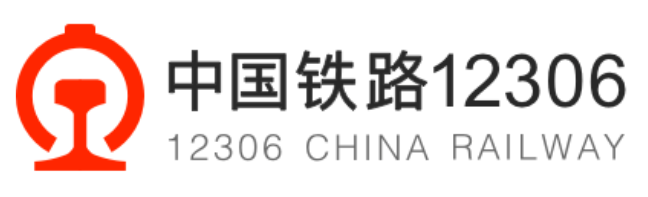
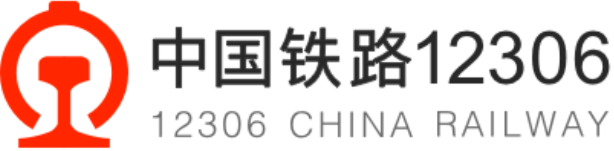
增加了登录页面的视图设计

diff --git a/web/src/App.tsx b/web/src/App.tsx
@@ -10,7 +10,7 @@ import My12306Menu from './components/My12306Menu'
 import NotFound from './pages/NotFound'
 import Standby from './pages/Standby'
 import Register from './pages/Register'
-import ForgotPassword from './pages/ForgotPassword'
+/* ForgotPassword 已移除 */
 import { useSession } from './hooks/useSession'
 import { logout } from './services/auth'
 import ConfirmOrder from './pages/ConfirmOrder'
@@ -37,51 +37,60 @@ function App() {
   const [openMenu, setOpenMenu] = useState<string | null>(null);
   const handleLogout = () => { logout(); navigate('/', { replace: true }); };
   useEffect(() => { setOpenMenu(null); }, [location]);
+  const isLoginPage = location.pathname.startsWith('/login');
   return (
     <div>
-      <header className="site-header">
+      <header className={"site-header" + (isLoginPage ? " login" : "")}>
         <div className="wrap">
-          <div className="logo">中国铁路12306</div>
-          <nav>
-            <My12306Menu />
-            <span className="divider">|</span>
-            {username ? (
-              <span className="welcome">
-                <span className="label">您好，</span>
-                <button className="username-link" onClick={() => navigate('/my')}>{getUserByUsername(username)?.fullName || username}</button>
-              </span>
-            ) : (
-              <span className="auth-group">
-                <NavLink className="auth-link" to="/login">登录</NavLink>
-                <span className="divider">|</span>
-                <NavLink className="auth-link" to="/register">注册</NavLink>
-              </span>
-            )}
-            <span className="divider">|</span>
-            {username ? (
-              <button className="logout-link" onClick={handleLogout}>退出</button>
-            ) : null}
-          </nav>
+          <div className="logo">
+            <img src="/media/图标.png" alt="中国铁路12306" className="logo-img" />
+          </div>
+          {isLoginPage && (
+            <div className="login-welcome-text">欢迎登录12306</div>
+          )}
+          {!isLoginPage && (
+            <nav>
+              <My12306Menu />
+              <span className="divider">|</span>
+              {username ? (
+                <span className="welcome">
+                  <span className="label">您好，</span>
+                  <button className="username-link" onClick={() => navigate('/my')}>{getUserByUsername(username)?.fullName || username}</button>
+                </span>
+              ) : (
+                <span className="auth-group">
+                  <NavLink className="auth-link" to="/login">登录</NavLink>
+                  <span className="divider">|</span>
+                  <NavLink className="auth-link" to="/register">注册</NavLink>
+                </span>
+              )}
+              <span className="divider">|</span>
+              {username ? (
+                <button className="logout-link" onClick={handleLogout}>退出</button>
+              ) : null}
+            </nav>
+          )}
         </div>
-        <div className="main-nav">
-          <div className="wrap">
-            <div className="nav-items">
-              <NavLink to="/" end className="nav-item">首页</NavLink>
-              <div className="nav-item has-dropdown" onMouseEnter={() => setOpenMenu('ticket')} onMouseLeave={() => setOpenMenu(null)}>
-                <span>车票<CaretDown /></span>
-                <div className={"dropdown" + (openMenu === 'ticket' ? " open" : "")}>
+        {!isLoginPage && (
+          <div className="main-nav">
+            <div className="wrap">
+              <div className="nav-items">
+                <NavLink to="/" end className="nav-item">首页</NavLink>
+                <div className="nav-item has-dropdown" onMouseEnter={() => setOpenMenu('ticket')} onMouseLeave={() => setOpenMenu(null)}>
+                  <span>车票<CaretDown /></span>
+                  <div className={"dropdown" + (openMenu === 'ticket' ? " open" : "")}> 
                   <NavLink to="/results" className="dd-item" onClick={() => setOpenMenu(null)}>查询结果</NavLink>
                   <NavLink to="/orders" className="dd-item" onClick={() => setOpenMenu(null)}>订单中心</NavLink>
                   <NavLink to="/standby" className="dd-item" onClick={() => setOpenMenu(null)}>候补购票</NavLink>
                 </div>
               </div>
-
+              
               <div className="nav-item has-dropdown" onMouseEnter={() => setOpenMenu('group')} onMouseLeave={() => setOpenMenu(null)}>
                 <span>团购服务<CaretDown /></span>
                 <div className={"dropdown" + (openMenu === 'group' ? " open" : "")}>
                   <div className="dd-grid dd-2">
-                    <div className="dd-col"><NavLink to="/group?tab=worker" className="dd-item" onClick={() => setOpenMenu(null)}>务工人员</NavLink></div>
-                    <div className="dd-col"><NavLink to="/group?tab=student" className="dd-item" onClick={() => setOpenMenu(null)}>学生团体</NavLink></div>
+                    <div className="dd-col"><NavLink to="/stub/group_worker" className="dd-item" onClick={() => setOpenMenu(null)}>务工人员</NavLink></div>
+                    <div className="dd-col"><NavLink to="/stub/group_student" className="dd-item" onClick={() => setOpenMenu(null)}>学生团体</NavLink></div>
                   </div>
                 </div>
               </div>
@@ -222,13 +231,13 @@ function App() {
             </div>
           </div>
         </div>
+        )}
       </header>
-      <main>
+      <main className={isLoginPage ? 'main-fullwidth' : undefined}>
         <Routes>
           <Route path="/" element={<Home />} />
           <Route path="/login" element={<Login />} />
           <Route path="/register" element={<Register />} />
-          <Route path="/forgot" element={<ForgotPassword />} />
           {/* 忘记密码路由已删除 */}
           <Route path="/results" element={<Results />} />
           <Route path="/orders" element={<ProtectedRoute><Orders /></ProtectedRoute>} />

diff --git a/web/src/pages/Login.tsx b/web/src/pages/Login.tsx
@@ -10,7 +10,7 @@ const Login: React.FC = () => {
   const [username, setUsername] = useState<string>(() => localStorage.getItem('rememberedUsername') || '');
   const [password, setPassword] = useState('');
   const [showPwd, setShowPwd] = useState(false);
-  const [remember, setRemember] = useState(!!localStorage.getItem('rememberedUsername'));
+  // 取消“记住用户名”功能
   const [error, setError] = useState<string>('');
 
   const handleSubmit = async (e: React.FormEvent) => {
@@ -21,11 +21,7 @@ const Login: React.FC = () => {
       setError(result.message || '登录失败');
       return;
     }
-    if (remember) {
-      localStorage.setItem('rememberedUsername', username);
-    } else {
-      localStorage.removeItem('rememberedUsername');
-    }
+    // 记住用户名功能已取消
     // 登录成功，设置会话并按来源跳转
     setSession(username);
     const s = location.state as unknown; let from = '/';
@@ -77,41 +73,20 @@ const Login: React.FC = () => {
 
   return (
     <div className="login-wrapper">
-      {/* 头部 */}
-      <header className="header">
-        <div className="logo-section">
-          <img src="/media/图标.png" alt="12306图标" className="logo-icon-img" />
-          <div className="logo-text">
-            <h1 className="logo-main">中国铁路12306</h1>
-            <p className="logo-sub">12306 CHINA RAILWAY</p>
-          </div>
-        </div>
-        <div className="welcome-text">欢迎登录12306</div>
-      </header>
+      {/* 登录页不再展示内部头部 */}
 
       {/* 主登录区域 */}
       <div className="login-container">
         <div className="login-page">
           <div className="hero">
-            <div className="slogan">
-              <h1>铁路12306 - 中国铁路官方APP</h1>
-              <p>尽享精彩出行服务</p>
-              <ul>
-                <li>个人行程提醒</li>
-                <li>积分兑换</li>
-                <li>餐饮·特产</li>
-                <li>车站大屏</li>
-              </ul>
-              <div className="qr-area">
-                <div className="qr-box">
-                  <div>
-                    <div>扫描左侧二维码</div>
-                    <div>安装 铁路12306</div>
-                  </div>
+            <div className="qr-area">
+              <div className="qr-box">
+                <div>
+                  <div>扫描左侧二维码</div>
+                  <div>安装 铁路12306</div>
                 </div>
               </div>
             </div>
-            <img className="phone-mock" alt="app" src="/vite.svg" />
           </div>
 
           <div className="login-card">
@@ -144,22 +119,17 @@ const Login: React.FC = () => {
                   </button>
                 </div>
 
-                <div className="form-meta">
-                  <label><input type="checkbox" checked={remember} onChange={(e) => setRemember(e.target.checked)} /> 记住用户名</label>
-                  <div className="links">
-                    <a href="#" onClick={(e)=>{e.preventDefault(); navigate('/register')}}>注册12306账号</a>
-                    <span className="divider">|</span>
-                    <a href="#" onClick={(e)=>{e.preventDefault(); navigate('/forgot')}}>忘记密码</a>
-                  </div>
-                </div>
+                {/* 链接移动到按钮下方 */}
 
                 {error && <div className="error">{error}</div>}
 
                 <button type="submit" className="primary">立即登录</button>
-                <div className="note">
-                  铁路12306将于05:00至11:00（周一为05:00至24:00）对系统进行检查维护，如有紧急业务，请错峰办理。
-                  <br />在此期间购票、改签、变更到站等业务，本站对部分功能等进行了优化调整。
+                <div className="links below">
+                  <a href="#" onClick={(e)=>{e.preventDefault(); navigate('/register')}}>注册12306账号</a>
+                  <span className="divider">|</span>
+                  <a href="#" onClick={(e)=>{e.preventDefault(); navigate('/forgot')}}>忘记密码</a>
                 </div>
+                <div className="note">铁路12306每日5:00至次日1:00（周二为5:00至24:00）提供购票、改签、变更到站业务办理， 全天均可办理退票等其他服务。</div>
               </form>
             ) : (
               <div className="qr-login">

diff --git a/web/src/pages/login.css b/web/src/pages/login.css
@@ -69,28 +69,17 @@ body{
 
 /* 主登录区域 */
 .login-container{
-  background:linear-gradient(135deg, var(--blue-gradient) 0%, #5A86E8 100%), url('/media/背景图.png');
-  background-size:cover;
-  background-position:center;
-  background-blend-mode:overlay;
-  min-height:calc(100vh - 72px);
+  background: url('/media/背景图.png') no-repeat center top;
+  background-size: 100% auto;
+  min-height: calc(100vh - 68px);
   display:flex;
   align-items:center;
   justify-content:center;
-  padding:32px;
+  padding:0;
   position:relative;
 }
 
-.login-container::before{
-  content:'';
-  position:absolute;
-  top:0;
-  left:0;
-  right:0;
-  bottom:0;
-  background:linear-gradient(135deg, rgba(94,139,239,0.9) 0%, rgba(90,134,232,0.9) 100%);
-  z-index:1;
-}
+/* 移除覆盖层，确保背景图完整显示 */
 
 .login-page{
   position:relative;
@@ -108,11 +97,11 @@ body{
 
 /* 左侧宣传区域 */
 .hero{
-  padding:40px;
+  padding:0;
   position:relative;
   min-height:500px;
   display:flex;
-  flex-direction:column;
+  align-items:center;
   justify-content:center;
 }
 
@@ -155,7 +144,10 @@ body{
 }
 
 .hero .qr-area{
-  margin-top:32px;
+  margin-top:0;
+  position:absolute;
+  top:16px;
+  left:24px;
 }
 
 .hero .qr-box{
@@ -173,14 +165,7 @@ body{
   font-size:14px;
 }
 
-.hero .phone-mock{
-  position:absolute;
-  right:20px;
-  bottom:20px;
-  width:200px;
-  opacity:0.9;
-  filter:drop-shadow(0 4px 8px rgba(0,0,0,0.2));
-}
+/* 移除示意手机图 */
 
 /* 登录卡片 */
 .login-card{
@@ -189,10 +174,11 @@ body{
   box-shadow:0 8px 24px rgba(0,0,0,0.15);
   padding:32px;
   width:100%;
-  max-width:420px;
+  max-width:345px;
+  transform: translate(20px, -150px);
 }
 
-.login-card{background:#fff;border-radius:8px;box-shadow:0 6px 16px rgba(0,0,0,.08);padding:16px;width:700px;}
+.login-card{background:#fff;border-radius:8px;box-shadow:0 6px 16px rgba(0,0,0,.08);padding:16px;}
 /* 标签页样式 */
 .tabs{display:flex;border-bottom:2px solid #f0f0f0;margin-bottom:24px;}
 .tabs button{flex:1;background:transparent;border:none;padding:12px 16px;cursor:pointer;color:#999;font-size:16px;font-weight:500;transition:all 0.3s ease;}
@@ -220,8 +206,8 @@ body{
 .error{background:#fff2f0;color:var(--danger);padding:12px;border-radius:6px;border:1px solid #ffccc7;margin:8px 0;font-size:13px;}
 
 /* 主要按钮 */
-.primary{background:var(--accent);color:white;border:none;border-radius:8px;padding:14px;font-size:16px;font-weight:600;cursor:pointer;transition:all 0.3s ease;margin-top:8px;}
-.primary:hover{background:#FF6F00;transform:translateY(-1px);box-shadow:0 4px 12px rgba(255,140,0,0.3);}
+.login-card .primary{background:#FF7A00 !important;color:white;border:none;border-radius:8px;padding:14px;font-size:16px;font-weight:600;cursor:pointer;transition:all 0.3s ease;margin-top:8px;}
+.login-card .primary:hover{background:#f0b67b !important;transform:translateY(-1px);box-shadow:0 4px 12px rgba(255,196,138,0.35);} 
 .primary:active{transform:translateY(0);}
 
 /* 提示文字 */
@@ -307,3 +293,7 @@ body{
   height:16px;
   accent-color:var(--brand);
 }
+.links.below{display:flex;align-items:center;justify-content:center;gap:8px;margin-top:10px;}
+.links.below{font-size:12px;}
+.links.below a:first-child{color:var(--brand);text-decoration:none;}
+.links.below a:last-child{color:#888;text-decoration:none;}

diff --git a/web/src/App.css b/web/src/App.css
@@ -1,6 +1,11 @@
 .site-header { background: #fff; border-bottom: 1px solid #eaeaea; }
-.site-header .wrap { max-width: 1200px; margin: 0 auto; display: flex; align-items: center; justify-content: space-between; padding: 12px 16px; }
+.site-header .wrap { max-width: 1200px; margin: 0 auto; display: flex; align-items: center; justify-content: space-between; padding: 10px 16px; }
 .site-header .logo { color: var(--brand); font-weight: bold; }
+.site-header .logo .logo-img { height: 48px; display: block; }
+.site-header.login .wrap { justify-content: flex-start; gap: 6px; }
+.site-header.login .login-welcome-text { margin-left: 6px; color: #666; font-size: 18px; }
+
+.main-fullwidth { max-width: none; margin: 0; padding: 0; }
 .site-header nav a { margin: 0; color: #333; font-size: 14px; }
 .site-header nav a.active { color: var(--brand); font-weight: 600; }
 
@@ -27,7 +32,7 @@ main { max-width: 1200px; margin: 24px auto; padding: 0 16px; }
 .main-nav { background: #2ea5ff; }
 .main-nav .wrap { max-width: 1200px; margin: 0 auto; padding: 0 16px; position: relative; }
 .main-nav .nav-items { display: grid; grid-template-columns: repeat(8, 1fr); align-items: center; width: 100%; column-gap: 8px; }
-.main-nav .nav-item { color: #fff; padding: 12px 16px; text-decoration: none; position: relative; display:flex; align-items:center; justify-content:center; width: 100%; }
+.main-nav .nav-item { color: #fff; padding: 10px 16px; text-decoration: none; position: relative; display:flex; align-items:center; justify-content:center; width: 100%; }
 .main-nav .nav-item:hover { background: #2089e5; }
 .main-nav .caret { margin-left: 6px; width: 14px; height: 14px; opacity: 0.95; vertical-align: middle; }
 .main-nav .has-dropdown { position: static; }
